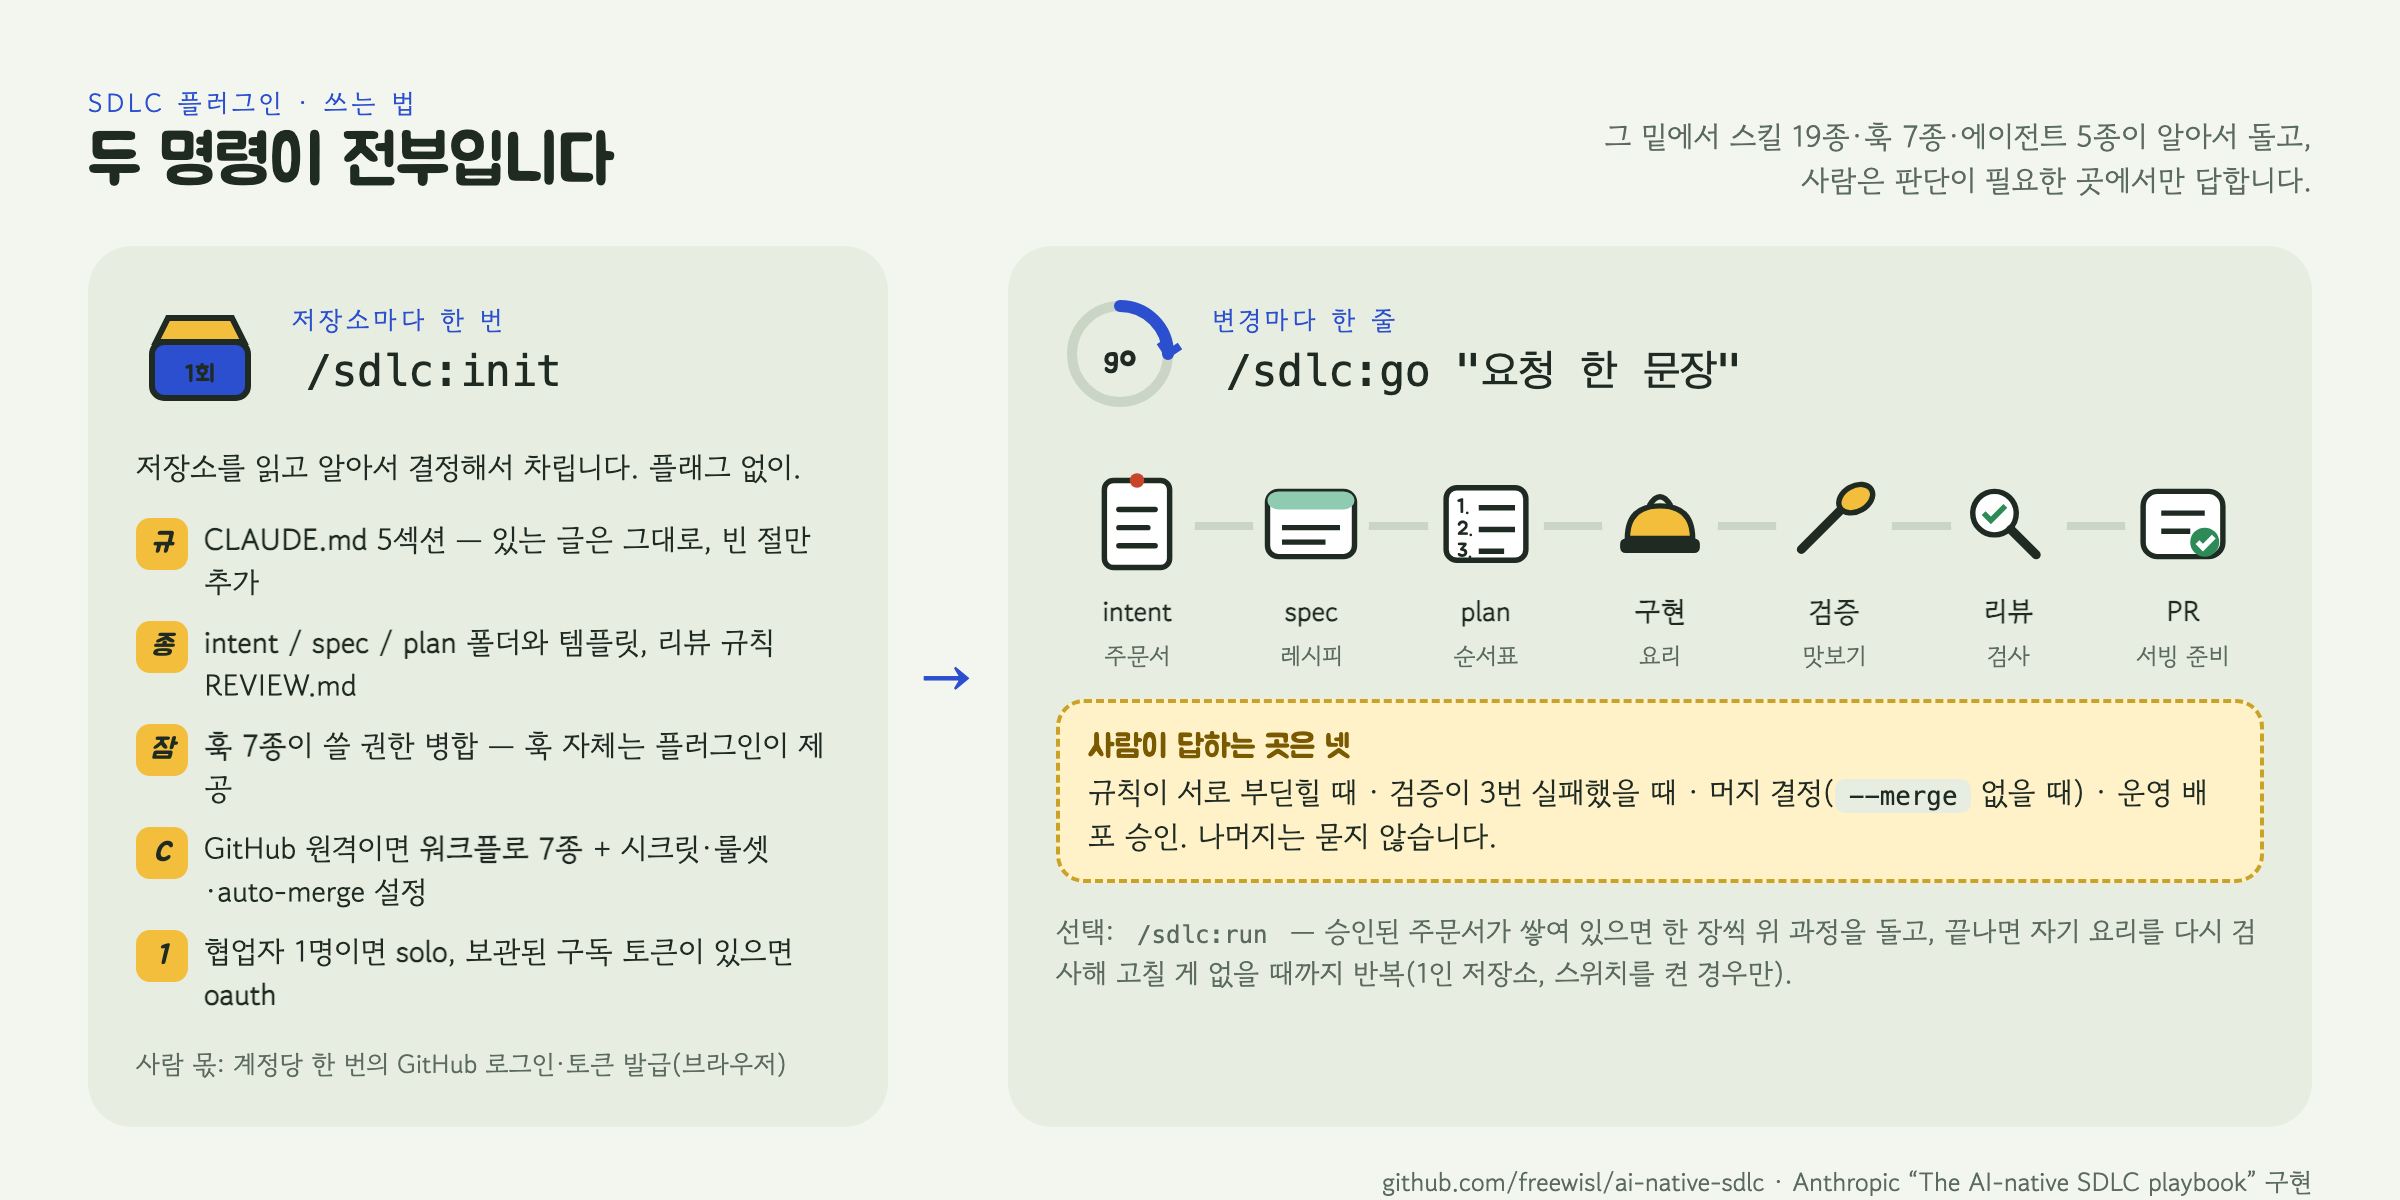
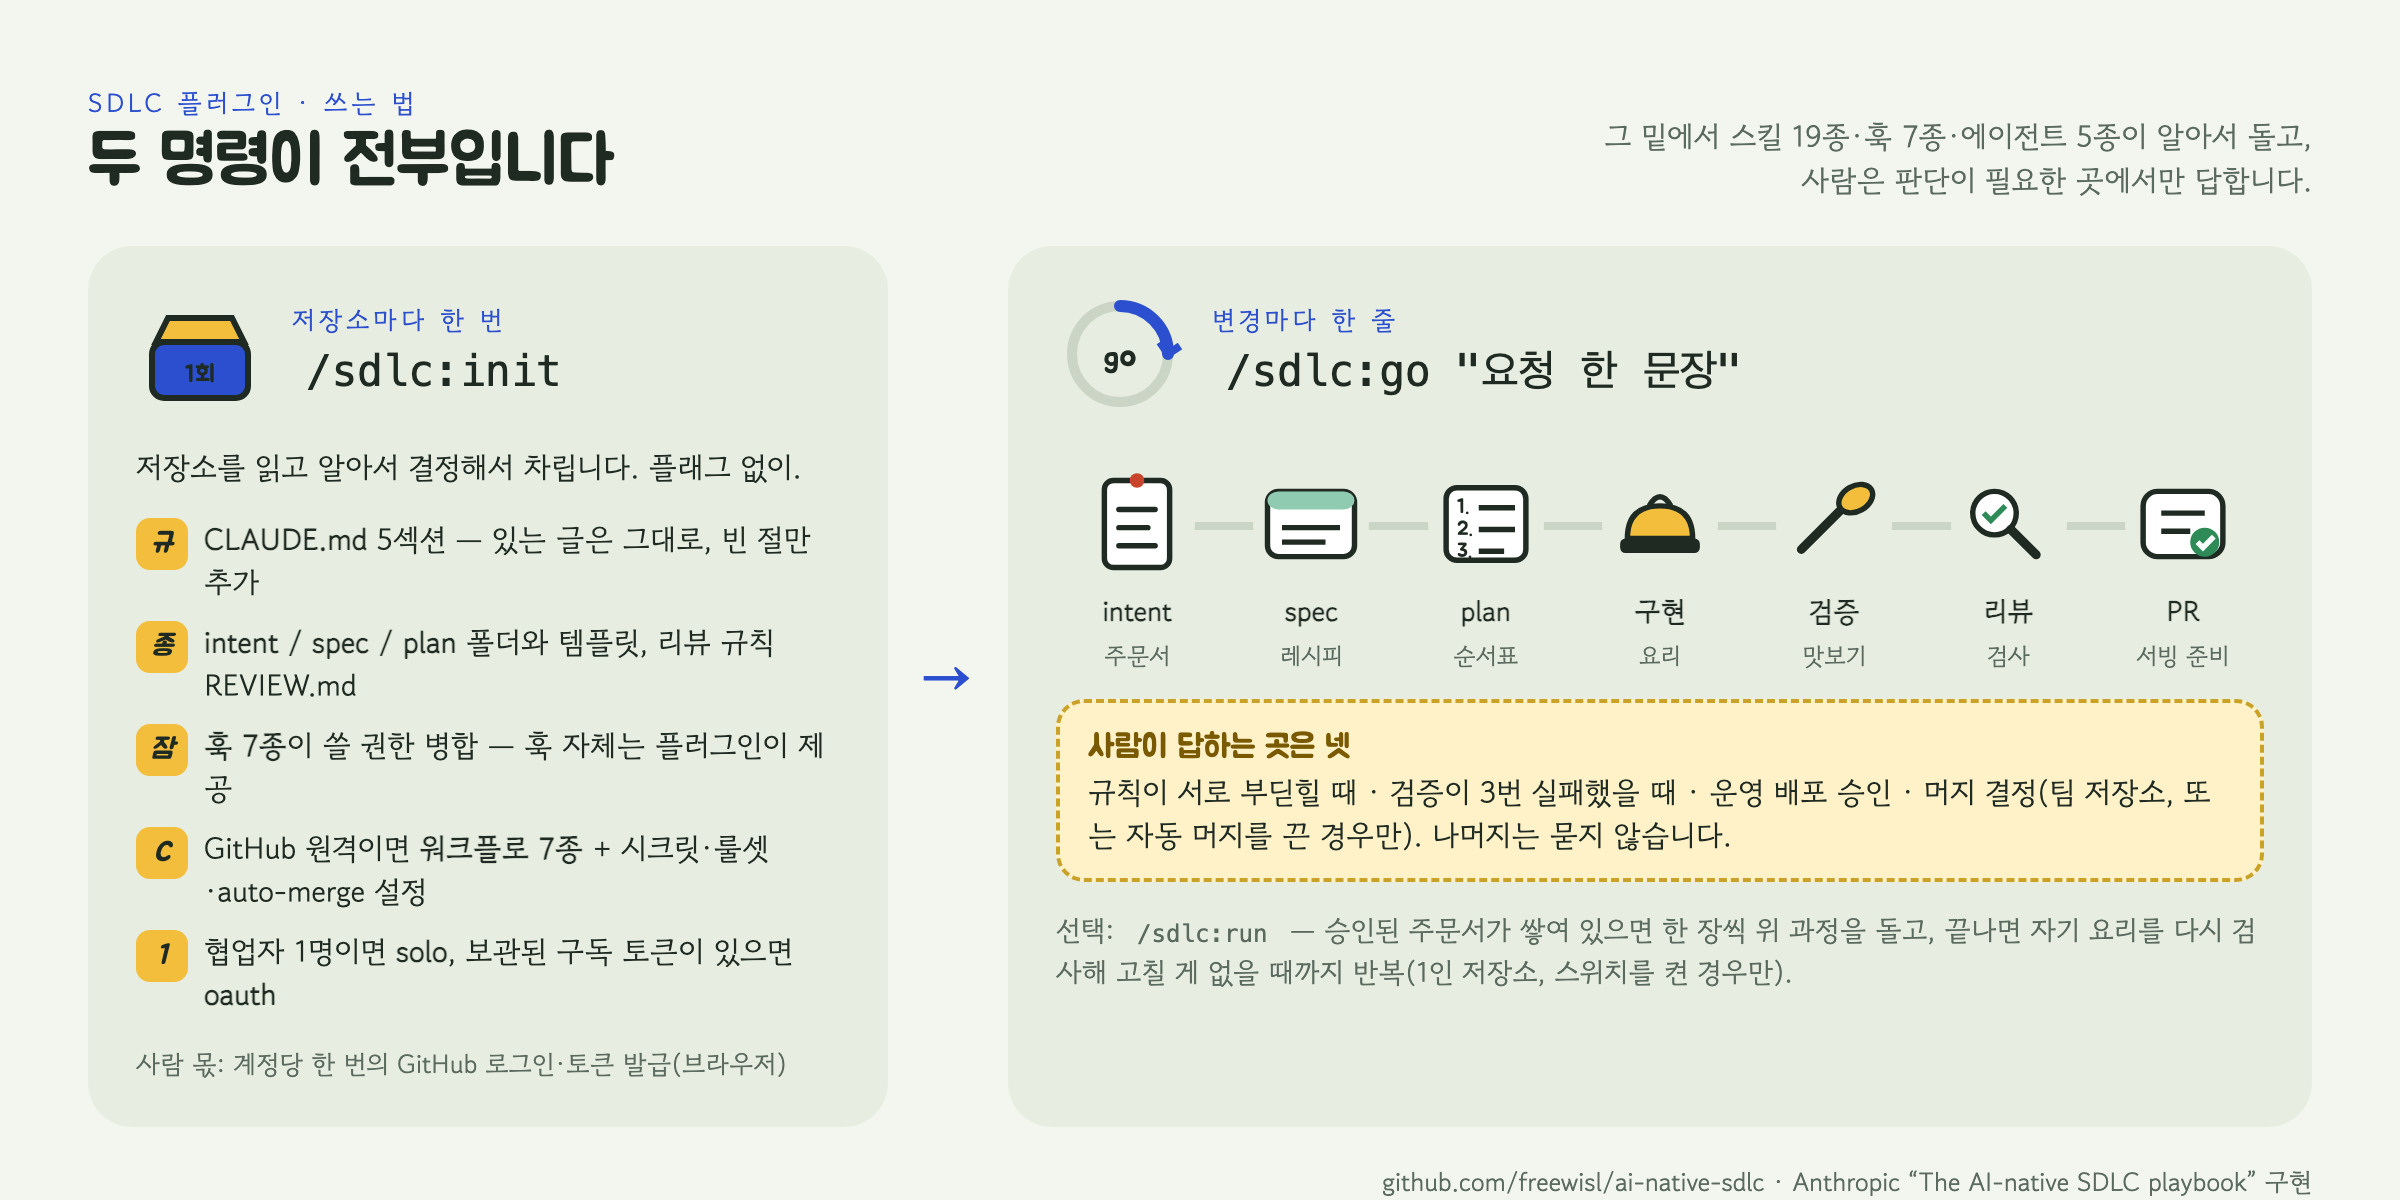
0.5.0: tests, pictures, changelog and version for the automatic-by-default change
The previous commit landed the behaviour without its tests and version bump (patch script stopped midway).

Claude-Session: https://claude.ai/code/session_01PJNbujz3n5Aw2NZTvboJ7k

diff --git a/docs/img/src/02-go-flow.html b/docs/img/src/02-go-flow.html
@@ -37,12 +37,12 @@ body{height:640px}
 <div class="bubbles">
   <div class="bubble"><b>질문 최대 2개</b>범위나 성공 기준이 정말 모호할 때만. 1인 저장소면 요청 자체가 승인</div>
   <div class="bubble"><b>정책 충돌</b>규칙끼리 부딛히거나 요구가 모순일 때만 결정을 물음</div>
-  <div class="bubble"><b>계획 승인</b>기본은 1회 확인. <code style="white-space:nowrap">--autopilot</code> (solo + 준비도 ✓)이면 생략</div>
+  <div class="bubble"><b>계획 승인</b>1인 저장소는 기본 생략(<code style="white-space:nowrap">roles.autopilot</code>). 팀 저장소나 <code style="white-space:nowrap">--no-autopilot</code> 이면 1회 확인</div>
   <div class="bubble none">묻지 않음</div>
   <div class="bubble"><b>3회 실패</b>세 번 고쳐도 실패하면 출력 그대로 들고 물음</div>
   <div class="bubble none">묻지 않음</div>
   <div class="bubble none">묻지 않음</div>
-  <div class="bubble"><b>머지 결정</b><code>--merge</code> 없으면 "초록불, 머지 기다림" 에서 멈춤</div>
+  <div class="bubble"><b>머지 결정</b>1인 저장소는 기본 자동 머지(<code style="white-space:nowrap">roles.auto_merge</code>). 팀 저장소나 <code style="white-space:nowrap">--no-merge</code> 면 "초록불, 머지 기다림" 에서 멈춤</div>
 </div>
 <div class="legend"><span><i style="background:#FFF2C8;border:2px dashed #C9A227"></i>사람이 답할 수 있는 자리</span><span><i style="background:var(--paper-2);border:2px solid var(--ink)"></i>에이전트가 하는 단계</span><span>· 운영 배포는 별도 명령(<code>/sdlc:release</code>)이고 항상 사람 승인</span></div>
 </body></html>

diff --git a/docs/img/src/01-two-commands.html b/docs/img/src/01-two-commands.html
@@ -52,7 +52,7 @@ body{height:600px}
       <div class="step"><svg viewBox="0 0 64 64"><circle cx="24" cy="26" r="12" fill="#fff" stroke="var(--ink)" stroke-width="3"/><path d="M33 35 l14 14" stroke="var(--ink)" stroke-width="5" stroke-linecap="round"/><path d="M18 26 l4 4 l8 -8" fill="none" stroke="var(--ok)" stroke-width="3"/></svg><b>리뷰</b><small>검사</small></div>
       <div class="step"><svg viewBox="0 0 64 64"><rect x="10" y="14" width="44" height="36" rx="8" fill="#fff" stroke="var(--ink)" stroke-width="3"/><g stroke="var(--ink)" stroke-width="3"><line x1="20" y1="26" x2="44" y2="26"/><line x1="20" y1="36" x2="36" y2="36"/></g><circle cx="44" cy="42" r="8" fill="var(--ok)"/><path d="M40 42 l3 3 l6 -6" fill="none" stroke="#fff" stroke-width="3"/></svg><b>PR</b><small>서빙 준비</small></div>
     </div></div>
-    <div class="human"><b>사람이 답하는 곳은 넷</b><br>규칙이 서로 부딛힐 때 · 검증이 3번 실패했을 때 · 머지 결정(<code>--merge</code> 없을 때) · 운영 배포 승인. 나머지는 묻지 않습니다.</div>
+    <div class="human"><b>사람이 답하는 곳은 넷</b><br>규칙이 서로 부딛힐 때 · 검증이 3번 실패했을 때 · 운영 배포 승인 · 머지 결정(팀 저장소, 또는 자동 머지를 끈 경우만). 나머지는 묻지 않습니다.</div>
     <p class="soft" style="font-size:14px">선택: <code>/sdlc:run</code> — 승인된 주문서가 쌓여 있으면 한 장씩 위 과정을 돌고, 끝나면 자기 요리를 다시 검사해 고칠 게 없을 때까지 반복(1인 저장소, 스위치를 켠 경우만).</p>
   </div>
 </div>

diff --git a/plugins/sdlc/CHANGELOG.md b/plugins/sdlc/CHANGELOG.md
@@ -3,6 +3,16 @@
 All notable changes to the `sdlc` plugin are recorded here.
 The format follows [Keep a Changelog](https://keepachangelog.com/en/1.1.0/); versions follow [Semantic Versioning](https://semver.org/).
 
+## [0.5.0] - 2026-09-10
+
+Default flipped for solo repositories: automatic unless the owner adds a pause.
+
+### Changed
+- `init` on a solo repository now sets `roles.autopilot`, `roles.auto_merge` (new key) and `loop.enabled` to true; team repositories keep all three false. Existing keys are never overridden — a false the owner wrote stays a pause.
+- `/sdlc:go`: `--merge` defaults from `roles.auto_merge`; new `--no-autopilot` / `--no-merge` add the pause for one run; doctor's auto-mode readiness is advisory (one-line warning) instead of a stop. On a solo repository nothing stops between the request and the merge except policy conflicts, three failed verification rounds and production.
+- `run-loop.sh`: a missing `loop.enabled` on a solo repository means on; the refusal message names the switch.
+- Docs and pictures: "기본은 자동, 제한은 사용자가 켬" — private Free-plan repositories run on hooks + go discipline alone; public / paid plans get the same rules enforced again by the ruleset.
+
 ## [0.4.6] - 2026-09-09
 
 ### Added
